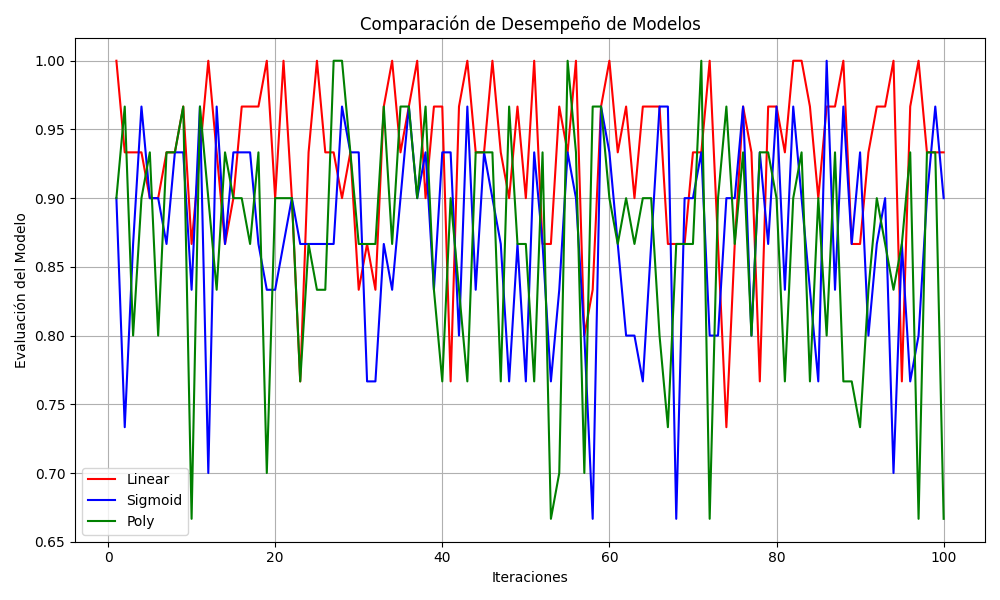
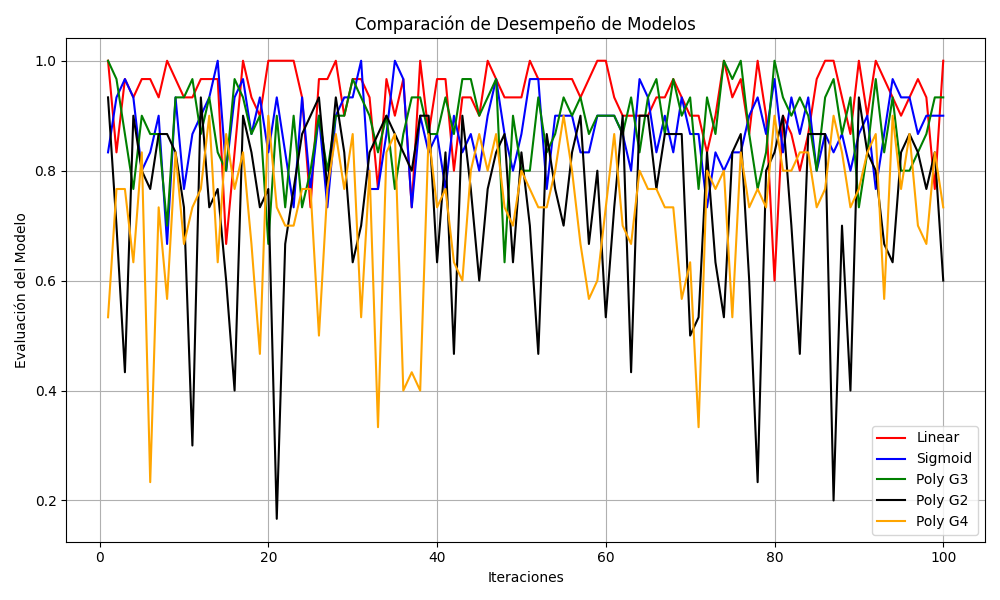
PUSH

diff --git a/Test.py b/Test.py
@@ -8,7 +8,7 @@ import numpy as np
 # Testeo de modelos, ejecutaremos una cierta cantidad de veces el modelo y promediaremos los resultados.
 
 def TestingModel(NumIters=1e+2, model="linear"):
-    if model not in ['linear', 'sigmoid', 'poly']:
+    if model not in ['linear', 'sigmoid', 'poly3', 'poly2', 'poly4']:
         raise ValueError(f"Se esperaba un modelo linear, sigmoid o poly, pero se encontró: {model}")
 
     F1History = []
@@ -49,7 +49,7 @@ matplotlib.use("TkAgg")
 import matplotlib.pyplot as plt
 
 
-def GraficoComparativo(MetricModel1, MetricModel2, MetricModel3, SaveFig):
+def GraficoComparativo(MetricModel1, MetricModel2, SaveFig, MetricModel4 = None, MetricModel5 = None, MetricModel3= None):
     iteraciones = list(range(1, len(MetricModel1) + 1))
 
     plt.figure(figsize=(10, 6))
@@ -57,7 +57,14 @@ def GraficoComparativo(MetricModel1, MetricModel2, MetricModel3, SaveFig):
     # Dibujar las líneas
     plt.plot(iteraciones, MetricModel1, color='red', label='Linear')
     plt.plot(iteraciones, MetricModel2, color='blue', label='Sigmoid')
-    plt.plot(iteraciones, MetricModel3, color='green', label='Poly')
+
+
+    if MetricModel3:
+        plt.plot(iteraciones, MetricModel3, color='green', label='Poly G3')
+    if MetricModel4:
+        plt.plot(iteraciones, MetricModel4, color='black', label='Poly G2')
+    if MetricModel5:
+        plt.plot(iteraciones, MetricModel5, color='orange', label='Poly G4')
 
     # Títulos y leyenda
     plt.title('Comparación de Desempeño de Modelos')

diff --git a/main.py b/main.py
@@ -5,7 +5,13 @@ if __name__ == "__main__":
     print("\n")
     F1Sigmoid, AccSigmoid, CMSigmoid = TestingModel(model='sigmoid')
     print("\n")
-    F1Poly, AccPoly, CMPoly = TestingModel(model='poly')
+    F1Poly3, AccPoly3, CMPoly3 = TestingModel(model='poly3')
+    print("\n")
+    F1Poly2, AccPoly2, CMPoly2 = TestingModel(model='poly2')
+    print("\n")
+    F1Poly4, AccPoly4, CMPoly4 = TestingModel(model='poly4')
 
-    GraficoComparativo(F1Linear, F1Sigmoid, F1Poly, "F1Score")
-    GraficoComparativo(AccLinear, AccSigmoid, AccPoly, "Accuracy")
+    GraficoComparativo(F1Linear, F1Sigmoid, SaveFig="F1Score",
+                       MetricModel3=None, MetricModel4=None, MetricModel5=None)
+    GraficoComparativo(AccLinear, AccSigmoid, SaveFig="Accuracy",
+                       MetricModel3=None, MetricModel4=None, MetricModel5=None)

diff --git a/Variables.py b/Variables.py
@@ -9,5 +9,7 @@ from sklearn.svm import SVC
 TypeModel = {
     'linear': SVC(kernel='linear'),
     'sigmoid': SVC(kernel='sigmoid'),
-    'poly': SVC(kernel='poly', degree=3)
+    'poly3': SVC(kernel='poly', degree=3),
+    'poly2': SVC(kernel='poly', degree=2),
+    'poly4': SVC(kernel='poly', degree=4)
 }
